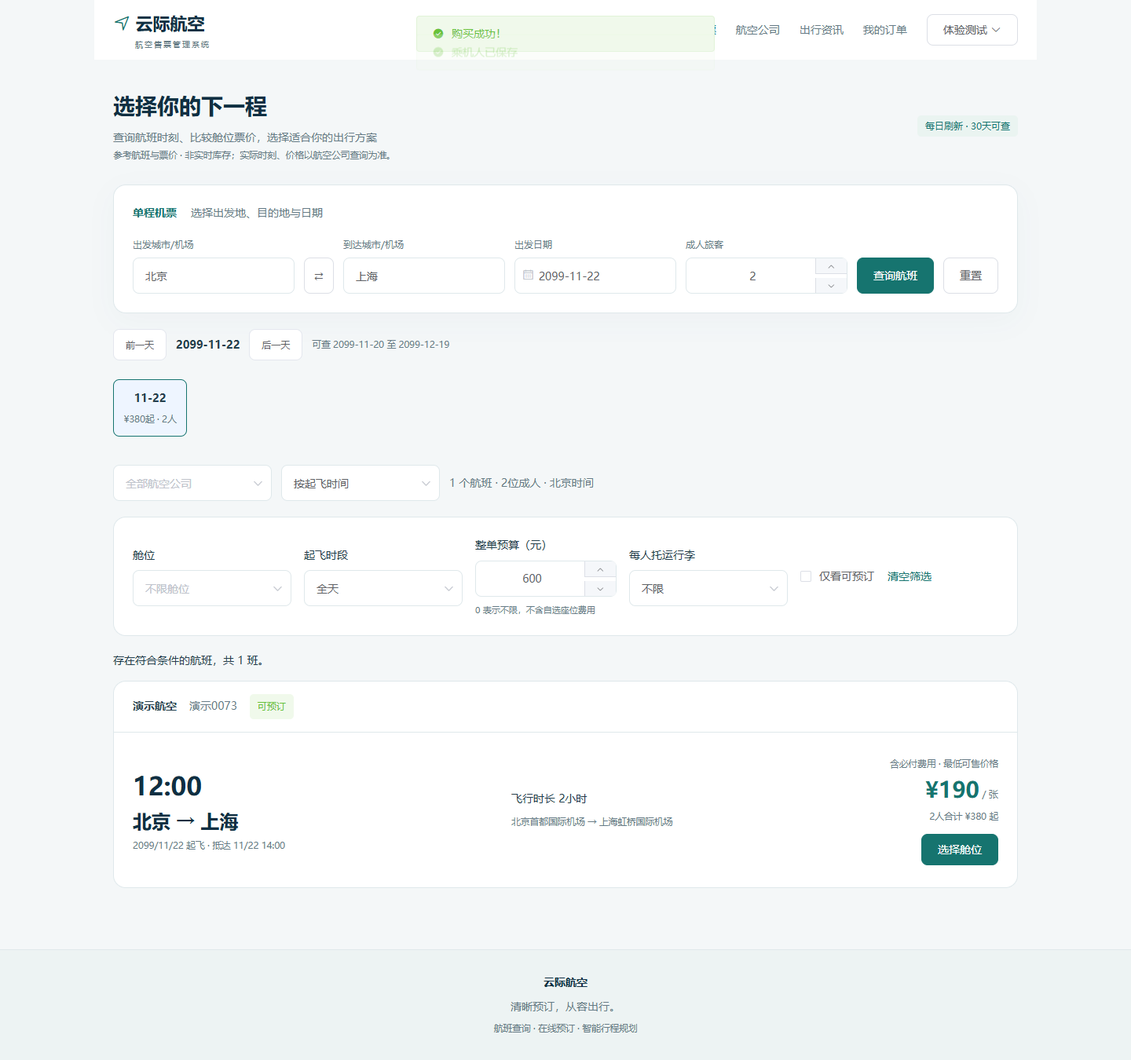
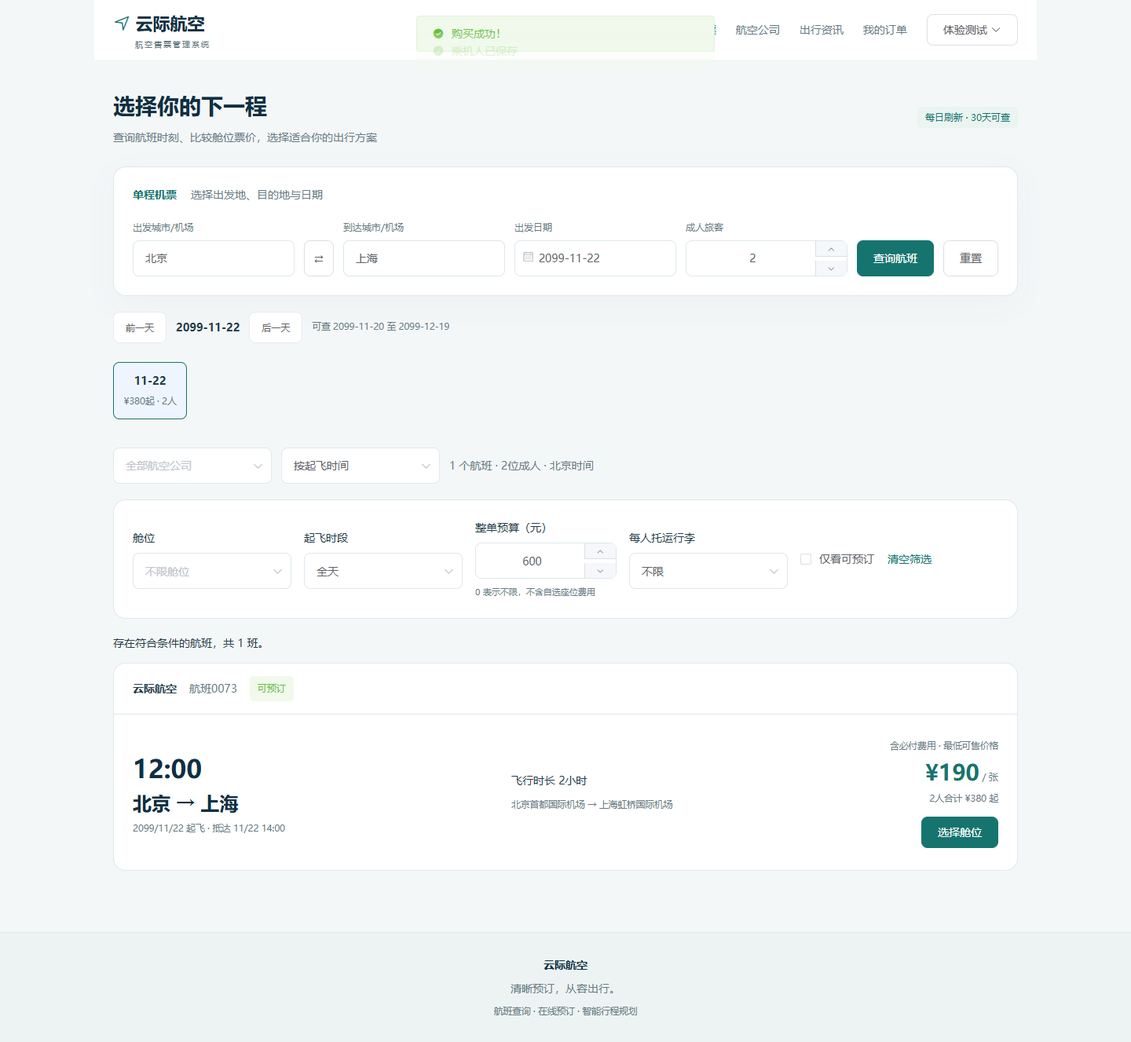
Fix flight availability and clean customer-facing copy

diff --git a/air-ticket-web/portal/src/views/MyOrders.vue b/air-ticket-web/portal/src/views/MyOrders.vue
@@ -2,7 +2,7 @@
   <div class="my-orders">
     <h2 class="page-title">我的订单</h2>
     <el-tabs v-model="activeTab" @tab-click="handleTabChange">
-      <el-tab-pane label="待支付" name="hold" />
+      <el-tab-pane label="待确认" name="hold" />
       <el-tab-pane label="全部" name="" />
       <el-tab-pane label="已购票" name="1" />
       <el-tab-pane label="退订中" name="2" />
@@ -10,7 +10,7 @@
     </el-tabs>
 
     <el-dialog title="费用与座位" :visible.sync="detailsVisible" width="min(650px,94vw)"><div v-if="orderDetails"><p v-for="p in orderDetails.passengers" :key="p.seatNo">{{ p.passengerName }} · {{ p.seatNo }}</p><div v-if="orderDetails.priceSnapshot"><p v-for="i in orderDetails.priceSnapshot.items" :key="i.code">{{ i.name }}：¥{{ i.amount }}</p><p>{{ orderDetails.priceSnapshot.policy.description }}</p></div><p v-else>历史订单金额未拆分，按原有规则处理。</p><p>订单总额 ¥{{ orderDetails.cost }}</p><p v-if="orderDetails.refundAmount != null">已审核退款 ¥{{ orderDetails.refundAmount }}</p></div></el-dialog>
-    <!-- 待支付占位列表 -->
+    <!-- 待确认占位列表 -->
     <div v-if="activeTab === 'hold'" v-loading="loading">
       <div v-if="holdList.length > 0" class="hold-list">
         <el-card
@@ -21,7 +21,7 @@
         >
           <div class="hold-card-header">
             <span class="hold-id">占位单号：{{ item.holdId }}</span>
-            <el-tag type="warning" size="small">待支付</el-tag>
+            <el-tag type="warning" size="small">待确认</el-tag>
           </div>
           <el-descriptions :column="2" border size="small" class="hold-desc">
             <el-descriptions-item label="航空公司">{{
@@ -56,7 +56,7 @@
           </el-descriptions>
           <div class="hold-countdown">
             <el-alert
-              :title="'支付剩余时间：' + formatCountdown(item.expireTime)"
+              :title="'确认剩余时间：' + formatCountdown(item.expireTime)"
               :type="
                 getRemainSeconds(item.expireTime) <= 60 ? 'error' : 'warning'
               "
@@ -72,7 +72,7 @@
               :disabled="getRemainSeconds(item.expireTime) <= 0"
               @click="$router.push('/booking/' + item.holdId)"
             >
-              立即支付
+              继续预订
             </el-button>
             <el-button
               type="danger"
@@ -87,7 +87,7 @@
       </div>
       <el-empty
         v-if="!loading && holdList.length === 0"
-        description="暂无待支付订单"
+        description="暂无待确认订单"
       />
     </div>
 
@@ -166,7 +166,7 @@
 
     <!-- 支付确认对话框 -->
     <el-dialog
-      title="确认支付"
+      title="确认预订"
       :visible.sync="payDialogVisible"
       width="420px"
       :close-on-click-modal="false"
@@ -189,7 +189,7 @@
           <el-descriptions-item label="数量"
             >{{ payingHold.quantity }} 张</el-descriptions-item
           >
-          <el-descriptions-item label="支付金额">
+          <el-descriptions-item label="订单金额">
             <span style="color: #f56c6c; font-size: 20px; font-weight: bold"
               >¥{{ payingHold.totalCost }}</span
             >
@@ -199,7 +199,7 @@
       <div slot="footer">
         <el-button @click="payDialogVisible = false">取消</el-button>
         <el-button type="primary" :loading="paying" @click="confirmPay"
-          >确认支付</el-button
+          >确认预订</el-button
         >
       </div>
     </el-dialog>
@@ -384,7 +384,7 @@ export default {
         userid: userId,
       })
         .then(() => {
-          this.$message.success('支付成功！订单已生成')
+          this.$message.success('预订成功！订单已生成')
           this.payDialogVisible = false
           this.payingHold = null
           this.activeTab = '1'

diff --git a/air-ticket-web/portal/src/views/OrderDetail.vue b/air-ticket-web/portal/src/views/OrderDetail.vue
@@ -13,7 +13,7 @@
     <el-skeleton v-if="loading" :rows="8" animated />
     <template v-else-if="order">
       <div class="actions">
-        <el-button @click="print">打印演示行程卡</el-button
+        <el-button @click="print">打印行程卡</el-button
         ><el-button :disabled="!canExport" @click="download"
           >加入日历（ICS）</el-button
         ><el-button
@@ -28,7 +28,7 @@
       <article class="surface itinerary-sheet">
         <div class="sheet-heading">
           <div>
-            <small class="muted">课程演示行程卡</small>
+            <small class="muted">行程信息</small>
             <h2>{{ flight.start }} → {{ flight.end }}</h2>
             <p>
               {{ flight.companyName }} · {{ flight.flightNo || "历史航班" }}
@@ -36,7 +36,7 @@
           </div>
           <el-tag>{{ statusLabel }}</el-tag>
         </div>
-        <p class="demo-notice">课程演示记录，不可用于真实乘机或报销。</p>
+        <p class="itinerary-notice">请核对出发日期、机场及航站楼，提前安排出行。</p>
         <div class="route-grid">
           <section>
             <h3>出发</h3>
@@ -197,7 +197,7 @@ export default {
       return (
         {
           CREATE: "订单已创建",
-          PAY: "模拟支付成功",
+          PAY: "预订确认完成",
           REFUND_REQUEST: "已申请退订",
           REFUND_APPROVE: "退订审核通过",
           REFUND_REJECT: "退订审核未通过",
@@ -233,7 +233,7 @@ export default {
         const url = URL.createObjectURL(blob);
         const link = document.createElement("a");
         link.href = url;
-        link.download = "演示行程-" + this.order.ddid + ".ics";
+        link.download = "行程-" + this.order.ddid + ".ics";
         link.click();
         setTimeout(() => URL.revokeObjectURL(url), 1000);
       } catch (e) {
@@ -290,7 +290,7 @@ export default {
 .route-grid strong {
   font-size: 20px;
 }
-.demo-notice {
+.itinerary-notice {
   padding: 12px;
   background: #fff6df;
   border-radius: 8px;

diff --git a/air-ticket-web/portal/src/views/CompanyDetail.vue b/air-ticket-web/portal/src/views/CompanyDetail.vue
@@ -5,13 +5,13 @@
         <img @error="companyImageError" loading="lazy" :src="getCompanyImage(company.companyName, company.companyPicture)" alt=""/>
       </div>
       <h1 class="company-name">{{ company.companyName }}</h1>
-      <p v-if="company.sourceUrl" class="source"><a :href="company.sourceUrl" target="_blank" rel="noopener noreferrer">航空公司官方资料来源</a> · 核实日期 {{ company.verifiedAt }}</p><el-divider />
+      <p v-if="company.sourceUrl" class="source"><a :href="company.sourceUrl" target="_blank" rel="noopener noreferrer">官方网站</a></p><el-divider />
       <el-descriptions :column="2" border>
         <el-descriptions-item label="公司名称">{{ company.companyName }}</el-descriptions-item>
         <el-descriptions-item label="联系电话">{{ company.companyPhone }}</el-descriptions-item>
         <el-descriptions-item label="公司简介" :span="2">{{ company.companyProfile }}</el-descriptions-item>
-        <el-descriptions-item label="企业文化" :span="2">{{ company.companyCulture }}</el-descriptions-item>
-        <el-descriptions-item label="公司宗旨" :span="2">{{ company.companyPurport }}</el-descriptions-item>
+        <el-descriptions-item v-if="company.companyCulture" label="企业文化" :span="2">{{ company.companyCulture }}</el-descriptions-item>
+        <el-descriptions-item v-if="company.companyPurport" label="公司宗旨" :span="2">{{ company.companyPurport }}</el-descriptions-item>
       </el-descriptions>
       <div class="back-btn">
         <el-button type="primary" @click="$router.back()">返回列表</el-button>

diff --git a/air-ticket-web/portal/src/utils/flightAvailability.js b/air-ticket-web/portal/src/utils/flightAvailability.js
@@ -1,0 +1,18 @@
+export function bookingStatus(flight, quantity = 1, now = Date.now()) {
+ if (flight.operationalStatus === 'CANCELLED') return 'CANCELLED'
+ if (flight.starttime && new Date(flight.starttime).getTime() <= now) return 'DEPARTED'
+ if (flight.saleStatus !== 1) return 'NOT_ON_SALE'
+ if (flight.operationalStatus && flight.operationalStatus !== 'SCHEDULED') return 'FLIGHT_CHANGED'
+ if (flight.saleOpenAt && new Date(flight.saleOpenAt).getTime() > now) return 'NOT_OPEN'
+ if (flight.saleCloseAt && new Date(flight.saleCloseAt).getTime() <= now) return 'SALES_CLOSED'
+ if (flight.bookingStatus) return flight.bookingStatus
+ if (flight.number == null) return 'INVENTORY_UNAVAILABLE'
+ if (Number(flight.number) === 0) return 'SOLD_OUT'
+ if (Number(flight.number) < quantity || flight.minTotal == null) return 'INSUFFICIENT_SEATS'
+ return 'AVAILABLE'
+}
+export const bookingLabels = {
+ AVAILABLE: '可预订', SOLD_OUT: '已售罄', INSUFFICIENT_SEATS: '同行余票不足',
+ INVENTORY_UNAVAILABLE: '暂不可预订', NOT_ON_SALE: '已停售', NOT_OPEN: '未开售',
+ DEPARTED: '已起飞', SALES_CLOSED: '预订已截止', CANCELLED: '已取消', FLIGHT_CHANGED: '航班调整中'
+}

diff --git a/air-ticket-web/portal/src/components/FlightCard.vue b/air-ticket-web/portal/src/components/FlightCard.vue
@@ -47,6 +47,7 @@
   </article>
 </template>
 <script>
+import { bookingStatus, bookingLabels } from '../utils/flightAvailability'
 export default {
   props: {
     flight: { type: Object, required: true },
@@ -57,22 +58,7 @@ export default {
     canBook() {
       return this.saleLabel === "可预订" && this.flight.minTotal != null;
     },
-    saleLabel() {
-      const now = Date.now();
-      if (this.flight.operationalStatus === "CANCELLED") return "已取消";
-      if (this.flight.saleStatus !== 1) return "已停售";
-      if (
-        this.flight.saleOpenAt &&
-        new Date(this.flight.saleOpenAt).getTime() > now
-      )
-        return "未开售";
-      if (
-        this.flight.saleCloseAt &&
-        new Date(this.flight.saleCloseAt).getTime() <= now
-      )
-        return "已截止";
-      return this.flight.number > 0 ? "可预订" : "已售罄";
-    },
+    saleLabel() { return bookingLabels[bookingStatus(this.flight,this.quantity)] || '暂不可预订' },
     arrival() {
       return this.flight.arrivalTime
         ? new Date(this.flight.arrivalTime).toLocaleString("zh-CN", {

diff --git a/air-ticket-web/portal/src/utils/itinerary.js b/air-ticket-web/portal/src/utils/itinerary.js
@@ -37,15 +37,15 @@ export function calendarText(order) {
     [
       "BEGIN:VCALENDAR",
       "VERSION:2.0",
-      "PRODID:-//AirTicket Course//Itinerary//ZH",
+      "PRODID:-//AirTicket//Itinerary//ZH",
       "CALSCALE:GREGORIAN",
       "BEGIN:VEVENT",
-      `UID:airticket-order-${Number(order.ddid)}@course.local`,
+      `UID:airticket-order-${Number(order.ddid)}@airticket.local`,
       `DTSTAMP:${stamp(order.ordertime)}`,
       `DTSTART:${stamp(flight.starttime)}`,
       `DTEND:${stamp(flight.arrivalTime)}`,
       `SUMMARY:${escape(
-        "演示行程 " +
+        "航班行程 " +
           flight.start +
           " → " +
           flight.end +
@@ -58,7 +58,7 @@ export function calendarText(order) {
           (flight.departureTerminal || "")
       )}`,
       `DESCRIPTION:${escape(
-        "课程演示行程，不可用于真实乘机或报销。订单 " +
+        "行程订单 " +
           order.orderNo +
           "。请在出发前重新核对航班信息。"
       )}`,

diff --git a/air-ticket-web/portal/src/views/Booking.vue b/air-ticket-web/portal/src/views/Booking.vue
@@ -87,7 +87,7 @@
           :loading="paying"
           :disabled="remaining <= 0"
           @click="pay"
-          >确认支付</el-button
+          >确认预订</el-button
         ><el-button
           class="cancel-hold"
           :loading="cancelling"
@@ -95,7 +95,7 @@
           @click="cancel"
           >取消占位并释放</el-button
         ><el-button type="text" @click="orders"
-          >稍后支付，前往我的订单</el-button
+          >稍后确认，前往我的订单</el-button
         >
       </aside>
     </div>

diff --git a/air-ticket-web/admin/src/views/jpdd/OrderManage.vue b/air-ticket-web/admin/src/views/jpdd/OrderManage.vue
@@ -206,7 +206,9 @@ export default {
         const data = res.data
         this.tableData = (data.records || data.list || []).map((order) => {
           try {
-            return { ...order, ...JSON.parse(order.flightSnapshot || '{}') }
+            const row={ ...order, ...JSON.parse(order.flightSnapshot || '{}') }
+            if(/^参考[0-9]+$/.test(row.flightNo||''))row.flightNo='航班'+row.flightNo.slice(2)
+            return row
           } catch (e) {
             return order
           }

diff --git a/air-ticket-web/portal/src/components/PassengerProfiles.vue b/air-ticket-web/portal/src/components/PassengerProfiles.vue
@@ -1,7 +1,7 @@
 <template>
   <section v-loading="loading">
     <p class="muted">
-      保存常用成人乘机人，下次预订时直接选择。最多20位，仅保存演示姓名。
+      保存常用成人乘机人，下次预订时直接选择。最多保存20位。
     </p>
     <div v-if="error" class="ui-error" role="alert">
       {{ error }} <el-button type="text" @click="load">重新加载</el-button>

diff --git a/air-ticket-web/portal/src/views/FlightSearch.vue b/air-ticket-web/portal/src/views/FlightSearch.vue
@@ -4,10 +4,6 @@
       <div>
         <h1>选择你的下一程</h1>
         <p>查询航班时刻、比较舱位票价，选择适合你的出行方案</p>
-        <small class="muted"
-          >参考航班与票价 ·
-          非实时库存；实际时刻、价格以航空公司查询为准。</small
-        >
       </div>
       <span class="pill">每日刷新 · 30天可查</span>
     </div>

diff --git a/air-ticket-server/src/main/java/com/airticket/service/FareSeatService.java b/air-ticket-server/src/main/java/com/airticket/service/FareSeatService.java
@@ -26,7 +26,7 @@ public class FareSeatService {
  }
  public Map<String,Object> seats(int flight,int cabin){
   catalog.required("SELECT hbid FROM hbxx WHERE hbid=?",flight);
-  return Map.of("flightId",flight,"cabinId",cabin,"layoutNotice","课程演示客舱布局，不代表航空公司实际配舱", "seats",db.queryForList("SELECT seat_no,seat_row,seat_column,seat_fee,state FROM flight_seat WHERE hbid=? AND cabin_id=? ORDER BY seat_row,seat_column",flight,cabin).stream().map(FlightCatalogService::camel).collect(java.util.stream.Collectors.toList()));
+  return Map.of("flightId",flight,"cabinId",cabin,"layoutNotice","请选择座位并核对费用", "seats",db.queryForList("SELECT seat_no,seat_row,seat_column,seat_fee,state FROM flight_seat WHERE hbid=? AND cabin_id=? ORDER BY seat_row,seat_column",flight,cabin).stream().map(FlightCatalogService::camel).collect(java.util.stream.Collectors.toList()));
  }
  @Transactional
  public Map<String,Object> quote(OrderDTO dto,int user){
@@ -53,12 +53,12 @@ public class FareSeatService {
   BigDecimal qty=BigDecimal.valueOf(dto.getQuantity());
   List<Map<String,Object>>items=new ArrayList<>();
   items.add(Map.of("code","BASE","name","基础运价","amount",money(c.get("price")).multiply(qty),"refundable",false));
-  items.add(Map.of("code","TAX","name","演示税费","amount",money(p.get("tax_fee")).multiply(qty),"refundable",true));
-  items.add(Map.of("code","FUEL","name","演示附加费","amount",money(p.get("fuel_fee")).multiply(qty),"refundable",true));
+  items.add(Map.of("code","TAX","name","税费","amount",money(p.get("tax_fee")).multiply(qty),"refundable",true));
+  items.add(Map.of("code","FUEL","name","燃油附加费","amount",money(p.get("fuel_fee")).multiply(qty),"refundable",true));
   BigDecimal seatFee=selected.stream().map(s->money(s.get("seat_fee"))).reduce(BigDecimal.ZERO,BigDecimal::add);
   items.add(Map.of("code","SEAT","name","自选座位服务","amount",seatFee,"refundable",true));
   BigDecimal total=items.stream().map(i->money(i.get("amount"))).reduce(BigDecimal.ZERO,BigDecimal::add);
-  Map<String,Object>snap=new LinkedHashMap<>();snap.put("currency","CNY");snap.put("sourceType","DEMO");snap.put("notice","课程演示计价，非航空公司实时官方报价");snap.put("items",items);snap.put("total",total);snap.put("quantity",dto.getQuantity());snap.put("baseUnitPrice",c.get("price"));
+  Map<String,Object>snap=new LinkedHashMap<>();snap.put("currency","CNY");snap.put("sourceType","DEMO");snap.put("notice","费用以订单明细为准");snap.put("items",items);snap.put("total",total);snap.put("quantity",dto.getQuantity());snap.put("baseUnitPrice",c.get("price"));
   snap.put("seats",selected.stream().map(s->s.get("seat_no")).collect(java.util.stream.Collectors.toList()));snap.put("passengers",dto.getPassengers().stream().map(String::trim).collect(java.util.stream.Collectors.toList()));
   snap.put("policy",FlightCatalogService.camel(p));snap.put("adjacencyNotice","自动分配优先同排；座位可能分散，以所列座位号为准");
   String id=UUID.randomUUID().toString();db.update("INSERT INTO flight_quote(id,userid,hbid,cabin_id,quantity,total,snapshot,expires_at)VALUES(?,?,?,?,?,?,?,DATE_ADD(NOW(),INTERVAL 5 MINUTE))",id,user,dto.getHbid(),dto.getCabinId(),dto.getQuantity(),total,encode(snap));
@@ -99,19 +99,20 @@ public class FareSeatService {
   BigDecimal rate=cancelled?BigDecimal.ZERO:s.path("policy").path(left>=24*3600000L?"earlyRefundRate":"lateRefundRate").decimalValue();
   BigDecimal base=BigDecimal.ZERO;for(JsonNode i:s.path("items"))if("BASE".equals(i.path("code").asText()))base=i.path("amount").decimalValue();
   BigDecimal fee=base.multiply(rate).setScale(2,RoundingMode.HALF_UP);
-  return Map.of("amount",money(o.get("cost")).subtract(fee),"fee",fee,"mode",cancelled?"INVOLUNTARY":"VOLUNTARY","notice",cancelled?"航班取消，全额退还演示费用":"依据购票时规则：基础运价收取退订费，演示税费、附加费和选座费退还");
+  return Map.of("amount",money(o.get("cost")).subtract(fee),"fee",fee,"mode",cancelled?"INVOLUNTARY":"VOLUNTARY","notice",cancelled?"航班取消，全额退还订单费用":"依据购票时规则：基础运价收取退订费，税费、附加费和选座费退还");
  }
  public Map<String,Object> holdDetail(long hold,int user){
   Map<String,Object>r=FlightCatalogService.camel(catalog.required("SELECT s.*,c.cabin_name,h.start,h.`end`,h.starttime,h.arrival_time,h.flight_no,h.place,co.company_name FROM seat_hold s JOIN hbxx h ON h.hbid=s.hbid JOIN hbxx_cabin c ON c.cabin_id=s.cabin_id JOIN company co ON co.company_id=h.company_id WHERE s.hold_id=? AND s.userid=?",hold,user));
-  if(r.get("priceSnapshot")!=null)r.put("priceSnapshot",decode(r.get("priceSnapshot")));r.put("totalCost",r.get("totalCost")!=null?r.get("totalCost"):money(r.get("unitPrice")).multiply(new BigDecimal(r.get("quantity").toString())));r.put("serverTime",new java.util.Date());return r;
+  if(r.get("priceSnapshot")!=null)r.put("priceSnapshot",CustomerPresentation.snapshot(decode(r.get("priceSnapshot"))));r.put("totalCost",r.get("totalCost")!=null?r.get("totalCost"):money(r.get("unitPrice")).multiply(new BigDecimal(r.get("quantity").toString())));r.put("serverTime",new java.util.Date());return r;
  }
  public Map<String,Object> orderDetail(int order,int user){
   Map<String,Object>o=FlightCatalogService.camel(catalog.required("SELECT ddid,hbid,userid,quantity,ordertime,order_no,status,cost,pricing_mode,price_snapshot,flight_snapshot,refund_amount FROM jpdd WHERE ddid=? AND userid=?",order,user));
   o.put("flight",flightForSnapshot(((Number)o.get("hbid")).intValue()));
-  o.put("flightSnapshot",o.get("flightSnapshot")==null?null:decode(o.get("flightSnapshot")));
+  o.put("flightSnapshot",o.get("flightSnapshot")==null?null:CustomerPresentation.snapshot(decode(o.get("flightSnapshot"))));
   o.put("timeline",db.queryForList("SELECT action,log_time,remark FROM order_log WHERE ddid=? AND action IN('CREATE','PAY','REFUND_REQUEST','REFUND_APPROVE','REFUND_REJECT') ORDER BY log_time,log_id",order).stream().map(FlightCatalogService::camel).collect(java.util.stream.Collectors.toList()));
+  for(Map<String,Object> event:(List<Map<String,Object>>)o.get("timeline"))if("模拟支付确认".equals(event.get("remark")))event.put("remark","预订确认完成");
   o.put("refund",db.queryForList("SELECT process,canceltime,review_reason,review_time,refund_amount FROM tdjp WHERE ddid=?",order).stream().map(FlightCatalogService::camel).findFirst().orElse(null));
-  if(o.get("priceSnapshot")!=null){JsonNode snapshot=decode(o.get("priceSnapshot"));((com.fasterxml.jackson.databind.node.ObjectNode)snapshot).remove("passengers");o.put("priceSnapshot",snapshot);}
+  if(o.get("priceSnapshot")!=null){JsonNode snapshot=CustomerPresentation.snapshot(decode(o.get("priceSnapshot")));((com.fasterxml.jackson.databind.node.ObjectNode)snapshot).remove("passengers");o.put("priceSnapshot",snapshot);}
   List<Map<String,Object>>passengers=db.queryForList("SELECT passenger_name,seat_no FROM order_passenger WHERE order_id=? ORDER BY passenger_index",order);
   for(Map<String,Object>p:passengers){String name=p.get("passenger_name").toString();p.put("passenger_name",name.substring(0,1)+"**");}o.put("passengers",passengers.stream().map(FlightCatalogService::camel).collect(java.util.stream.Collectors.toList()));return o;
  }

diff --git a/air-ticket-server/src/main/java/com/airticket/service/FlightSearchService.java b/air-ticket-server/src/main/java/com/airticket/service/FlightSearchService.java
@@ -14,9 +14,9 @@ public class FlightSearchService {
  @Autowired private FlightCatalogService catalog;
  private String query(String start,String end,LocalDate from,LocalDate to,FlightFilter f,List<Object> args){
   f.validate();args.add(f.getQuantity());
-  String cabin=" WHERE status=1 AND available_number>=?";
+  String cabin=" WHERE status=1";
   if(f.getCabinClass()!=null){cabin+=" AND cabin_class=?";args.add(f.getCabinClass());}
-  String sql=" FROM hbxx h JOIN company co ON co.company_id=h.company_id JOIN airport a ON a.code=h.departure_airport JOIN airport b ON b.code=h.arrival_airport JOIN aircraft_layout l ON l.code=h.layout_code JOIN fare_policy p ON p.code=h.policy_code "+(f.isOnlyAvailable()?"JOIN":"LEFT JOIN")+" (SELECT hbid,MIN(price) base_min,SUM(available_number) available_total FROM hbxx_cabin"+cabin+" GROUP BY hbid) c ON c.hbid=h.hbid WHERE h.service_date BETWEEN ? AND ?";
+  String sql=" FROM hbxx h JOIN company co ON co.company_id=h.company_id JOIN airport a ON a.code=h.departure_airport JOIN airport b ON b.code=h.arrival_airport JOIN aircraft_layout l ON l.code=h.layout_code JOIN fare_policy p ON p.code=h.policy_code LEFT JOIN (SELECT hbid,MIN(CASE WHEN available_number>=? THEN price END) base_min,SUM(available_number) available_total FROM hbxx_cabin"+cabin+" GROUP BY hbid) c ON c.hbid=h.hbid WHERE h.service_date BETWEEN ? AND ?";
   args.add(from);args.add(to);
   sql+=catalog.visibleFlights();
   sql+=catalog.locationFilter("departure_airport",catalog.normalizeLocation(start),args);
@@ -27,10 +27,11 @@ public class FlightSearchService {
   if(f.getDepartureTo()!=null){sql+=" AND HOUR(h.starttime)<?";args.add(f.getDepartureTo());}
   if(f.getMinBaggage()!=null){sql+=" AND p.baggage_kg>=?";args.add(f.getMinBaggage());}
   if(f.getMaxTotal()!=null&&f.getMaxTotal().signum()>0){sql+=" AND (c.base_min+p.tax_fee+p.fuel_fee)*?<=?";args.add(f.getQuantity());args.add(f.getMaxTotal());}
-  if(f.isOnlyAvailable())sql+=" AND "+sale();
+  if(f.isOnlyAvailable())sql+=" AND c.base_min IS NOT NULL AND "+sale();
   return sql;
  }
- private String sale(){return "h.sale_status=1 AND h.operational_status='SCHEDULED' AND NOW() BETWEEN h.sale_open_at AND h.sale_close_at AND h.starttime>NOW()";}
+ private String sale(){return "h.sale_status=1 AND h.operational_status='SCHEDULED' AND (h.sale_open_at IS NULL OR NOW()>=h.sale_open_at) AND (h.sale_close_at IS NULL OR NOW()<h.sale_close_at) AND h.starttime>NOW()";}
+ private String bookingStatus(){return "CASE WHEN h.operational_status='CANCELLED' THEN 'CANCELLED' WHEN h.starttime<=NOW() THEN 'DEPARTED' WHEN h.sale_status<>1 THEN 'NOT_ON_SALE' WHEN h.operational_status<>'SCHEDULED' THEN 'FLIGHT_CHANGED' WHEN NOW()<h.sale_open_at THEN 'NOT_OPEN' WHEN NOW()>=h.sale_close_at THEN 'SALES_CLOSED' WHEN c.available_total IS NULL THEN 'INVENTORY_UNAVAILABLE' WHEN c.available_total=0 THEN 'SOLD_OUT' WHEN c.base_min IS NULL THEN 'INSUFFICIENT_SEATS' ELSE 'AVAILABLE' END";}
  public Map<String,Object> search(String start,String end,String date,FlightFilter filter,String sort,int page,int size,int days){
   if(page<1||size<1||size>100||!Set.of("price","time","arrival","duration").contains(sort))throw new IllegalArgumentException("分页或排序条件不合法");
   LocalDate today=LocalDate.now(FlightCatalogService.ZONE),day=date==null||date.isBlank()?today:LocalDate.parse(date);
@@ -39,8 +40,11 @@ public class FlightSearchService {
   long total=db.queryForObject("SELECT COUNT(*)"+from,Long.class,args.toArray());
   String order=Map.of("price","min_total IS NULL,min_total,h.starttime,h.hbid","time","h.starttime,h.hbid","arrival","h.arrival_time,h.hbid","duration","h.duration_minutes,h.starttime,h.hbid").get(sort);
   args.add(size);args.add((long)(page-1)*size);
-  String sql="SELECT h.*,co.company_name,co.company_picture,a.name departure_airport_name,b.name arrival_airport_name,l.aircraft_type,p.baggage_kg,p.description fare_description,c.available_total number,(c.base_min+p.tax_fee+p.fuel_fee) min_total"+from+" ORDER BY "+order+" LIMIT ? OFFSET ?";
-  return Map.of("total",total,"exists",total>0,"message",total>0?"存在符合条件的航班":"没有符合条件的航班","records",db.queryForList(sql,args.toArray()).stream().map(FlightCatalogService::camel).collect(Collectors.toList()),"page",page,"pageSize",size,"quantity",filter.getQuantity());
+  String sql="SELECT h.*,co.company_name,co.company_picture,a.name departure_airport_name,b.name arrival_airport_name,l.aircraft_type,p.baggage_kg,p.description fare_description,c.available_total,(c.base_min+p.tax_fee+p.fuel_fee) min_total,"+bookingStatus()+" booking_status"+from+" ORDER BY "+order+" LIMIT ? OFFSET ?";
+  List<Map<String,Object>> records=db.queryForList(sql,args.toArray()).stream().map(FlightCatalogService::camel).collect(Collectors.toList());
+  // Do not alias over h.number: ColumnMapRowMapper preserves the first duplicate label.
+  for(Map<String,Object> record:records)record.put("number",record.remove("availableTotal"));
+  return Map.of("total",total,"exists",total>0,"message",total>0?"存在符合条件的航班":"没有符合条件的航班","records",records,"page",page,"pageSize",size,"quantity",filter.getQuantity(),"serverTime",ZonedDateTime.now(FlightCatalogService.ZONE));
  }
  public Map<String,Object> calendar(String start,String end,FlightFilter filter,int days){
   LocalDate today=LocalDate.now(FlightCatalogService.ZONE);List<Object> args=new ArrayList<>();String from=query(start,end,today,today.plusDays(days-1),filter,args);
